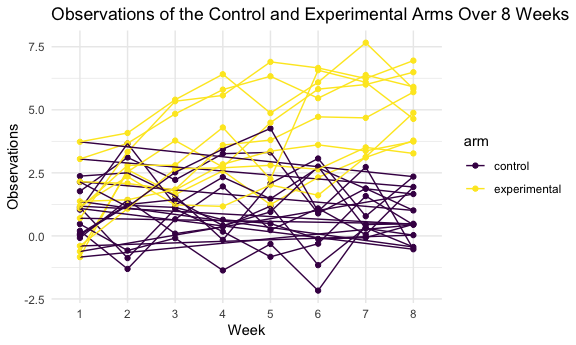
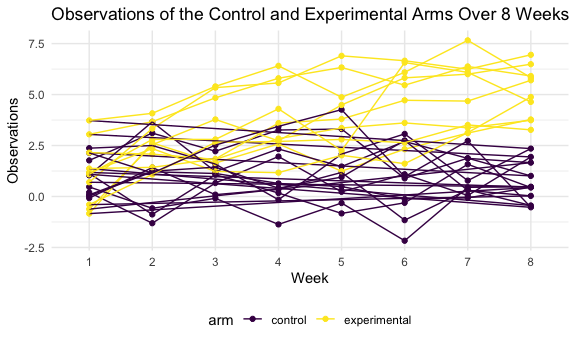
Fixing output message from problem 1 & 2

diff --git a/p8105_hw5_zw2716.md b/p8105_hw5_zw2716.md
@@ -30,22 +30,6 @@ homicide_df =
   filter(city_state != "Tulsa_AL")
 ```
 
-    ## Parsed with column specification:
-    ## cols(
-    ##   uid = col_character(),
-    ##   reported_date = col_double(),
-    ##   victim_last = col_character(),
-    ##   victim_first = col_character(),
-    ##   victim_race = col_character(),
-    ##   victim_age = col_character(),
-    ##   victim_sex = col_character(),
-    ##   city = col_character(),
-    ##   state = col_character(),
-    ##   lat = col_double(),
-    ##   lon = col_double(),
-    ##   disposition = col_character()
-    ## )
-
 Let’s look at this a bit
 
 ``` r
@@ -174,227 +158,6 @@ path_df =
   )
 ```
 
-    ## Parsed with column specification:
-    ## cols(
-    ##   week_1 = col_double(),
-    ##   week_2 = col_double(),
-    ##   week_3 = col_double(),
-    ##   week_4 = col_double(),
-    ##   week_5 = col_double(),
-    ##   week_6 = col_double(),
-    ##   week_7 = col_double(),
-    ##   week_8 = col_double()
-    ## )
-    ## Parsed with column specification:
-    ## cols(
-    ##   week_1 = col_double(),
-    ##   week_2 = col_double(),
-    ##   week_3 = col_double(),
-    ##   week_4 = col_double(),
-    ##   week_5 = col_double(),
-    ##   week_6 = col_double(),
-    ##   week_7 = col_double(),
-    ##   week_8 = col_double()
-    ## )
-    ## Parsed with column specification:
-    ## cols(
-    ##   week_1 = col_double(),
-    ##   week_2 = col_double(),
-    ##   week_3 = col_double(),
-    ##   week_4 = col_double(),
-    ##   week_5 = col_double(),
-    ##   week_6 = col_double(),
-    ##   week_7 = col_double(),
-    ##   week_8 = col_double()
-    ## )
-    ## Parsed with column specification:
-    ## cols(
-    ##   week_1 = col_double(),
-    ##   week_2 = col_double(),
-    ##   week_3 = col_double(),
-    ##   week_4 = col_double(),
-    ##   week_5 = col_double(),
-    ##   week_6 = col_double(),
-    ##   week_7 = col_double(),
-    ##   week_8 = col_double()
-    ## )
-    ## Parsed with column specification:
-    ## cols(
-    ##   week_1 = col_double(),
-    ##   week_2 = col_double(),
-    ##   week_3 = col_double(),
-    ##   week_4 = col_double(),
-    ##   week_5 = col_double(),
-    ##   week_6 = col_double(),
-    ##   week_7 = col_double(),
-    ##   week_8 = col_double()
-    ## )
-    ## Parsed with column specification:
-    ## cols(
-    ##   week_1 = col_double(),
-    ##   week_2 = col_double(),
-    ##   week_3 = col_double(),
-    ##   week_4 = col_double(),
-    ##   week_5 = col_double(),
-    ##   week_6 = col_double(),
-    ##   week_7 = col_double(),
-    ##   week_8 = col_double()
-    ## )
-    ## Parsed with column specification:
-    ## cols(
-    ##   week_1 = col_double(),
-    ##   week_2 = col_double(),
-    ##   week_3 = col_double(),
-    ##   week_4 = col_double(),
-    ##   week_5 = col_double(),
-    ##   week_6 = col_double(),
-    ##   week_7 = col_double(),
-    ##   week_8 = col_double()
-    ## )
-    ## Parsed with column specification:
-    ## cols(
-    ##   week_1 = col_double(),
-    ##   week_2 = col_double(),
-    ##   week_3 = col_double(),
-    ##   week_4 = col_double(),
-    ##   week_5 = col_double(),
-    ##   week_6 = col_double(),
-    ##   week_7 = col_double(),
-    ##   week_8 = col_double()
-    ## )
-    ## Parsed with column specification:
-    ## cols(
-    ##   week_1 = col_double(),
-    ##   week_2 = col_double(),
-    ##   week_3 = col_double(),
-    ##   week_4 = col_double(),
-    ##   week_5 = col_double(),
-    ##   week_6 = col_double(),
-    ##   week_7 = col_double(),
-    ##   week_8 = col_double()
-    ## )
-    ## Parsed with column specification:
-    ## cols(
-    ##   week_1 = col_double(),
-    ##   week_2 = col_double(),
-    ##   week_3 = col_double(),
-    ##   week_4 = col_double(),
-    ##   week_5 = col_double(),
-    ##   week_6 = col_double(),
-    ##   week_7 = col_double(),
-    ##   week_8 = col_double()
-    ## )
-    ## Parsed with column specification:
-    ## cols(
-    ##   week_1 = col_double(),
-    ##   week_2 = col_double(),
-    ##   week_3 = col_double(),
-    ##   week_4 = col_double(),
-    ##   week_5 = col_double(),
-    ##   week_6 = col_double(),
-    ##   week_7 = col_double(),
-    ##   week_8 = col_double()
-    ## )
-    ## Parsed with column specification:
-    ## cols(
-    ##   week_1 = col_double(),
-    ##   week_2 = col_double(),
-    ##   week_3 = col_double(),
-    ##   week_4 = col_double(),
-    ##   week_5 = col_double(),
-    ##   week_6 = col_double(),
-    ##   week_7 = col_double(),
-    ##   week_8 = col_double()
-    ## )
-    ## Parsed with column specification:
-    ## cols(
-    ##   week_1 = col_double(),
-    ##   week_2 = col_double(),
-    ##   week_3 = col_double(),
-    ##   week_4 = col_double(),
-    ##   week_5 = col_double(),
-    ##   week_6 = col_double(),
-    ##   week_7 = col_double(),
-    ##   week_8 = col_double()
-    ## )
-    ## Parsed with column specification:
-    ## cols(
-    ##   week_1 = col_double(),
-    ##   week_2 = col_double(),
-    ##   week_3 = col_double(),
-    ##   week_4 = col_double(),
-    ##   week_5 = col_double(),
-    ##   week_6 = col_double(),
-    ##   week_7 = col_double(),
-    ##   week_8 = col_double()
-    ## )
-    ## Parsed with column specification:
-    ## cols(
-    ##   week_1 = col_double(),
-    ##   week_2 = col_double(),
-    ##   week_3 = col_double(),
-    ##   week_4 = col_double(),
-    ##   week_5 = col_double(),
-    ##   week_6 = col_double(),
-    ##   week_7 = col_double(),
-    ##   week_8 = col_double()
-    ## )
-    ## Parsed with column specification:
-    ## cols(
-    ##   week_1 = col_double(),
-    ##   week_2 = col_double(),
-    ##   week_3 = col_double(),
-    ##   week_4 = col_double(),
-    ##   week_5 = col_double(),
-    ##   week_6 = col_double(),
-    ##   week_7 = col_double(),
-    ##   week_8 = col_double()
-    ## )
-    ## Parsed with column specification:
-    ## cols(
-    ##   week_1 = col_double(),
-    ##   week_2 = col_double(),
-    ##   week_3 = col_double(),
-    ##   week_4 = col_double(),
-    ##   week_5 = col_double(),
-    ##   week_6 = col_double(),
-    ##   week_7 = col_double(),
-    ##   week_8 = col_double()
-    ## )
-    ## Parsed with column specification:
-    ## cols(
-    ##   week_1 = col_double(),
-    ##   week_2 = col_double(),
-    ##   week_3 = col_double(),
-    ##   week_4 = col_double(),
-    ##   week_5 = col_double(),
-    ##   week_6 = col_double(),
-    ##   week_7 = col_double(),
-    ##   week_8 = col_double()
-    ## )
-    ## Parsed with column specification:
-    ## cols(
-    ##   week_1 = col_double(),
-    ##   week_2 = col_double(),
-    ##   week_3 = col_double(),
-    ##   week_4 = col_double(),
-    ##   week_5 = col_double(),
-    ##   week_6 = col_double(),
-    ##   week_7 = col_double(),
-    ##   week_8 = col_double()
-    ## )
-    ## Parsed with column specification:
-    ## cols(
-    ##   week_1 = col_double(),
-    ##   week_2 = col_double(),
-    ##   week_3 = col_double(),
-    ##   week_4 = col_double(),
-    ##   week_5 = col_double(),
-    ##   week_6 = col_double(),
-    ##   week_7 = col_double(),
-    ##   week_8 = col_double()
-    ## )
-
 2.  Make a spaghetti plot showing observations on each subject over
     time, and comment on differences between groups.
 
@@ -408,8 +171,7 @@ spaghetti_plot = path_df %>%
   geom_path() +
   labs(x = "Week",
        y = "Observations",
-       title = "Observations of the Control and Experimental Arms Over 8 Weeks") +
-  theme_minimal()
+       title = "Observations of the Control and Experimental Arms Over 8 Weeks")
 
 spaghetti_plot
 ```
@@ -439,9 +201,10 @@ to explore power in a one-sample t-test.
 
 First set the following design elements:
 
-Fix n=30 Fix σ=5 Set μ=0. Generate 5000 datasets from the model
+  - Fix n=30
+  - Fix σ=5
 
-x∼Normal\[μ,σ\]
+Set μ=0. Generate 5000 datasets from the model \[x∼Normal[μ,σ]\]
 
 For each dataset, save μ̂ and the p-value arising from a test of H:μ=0
 using α=0.05. Hint: to obtain the estimate and p-value, use broom::tidy
